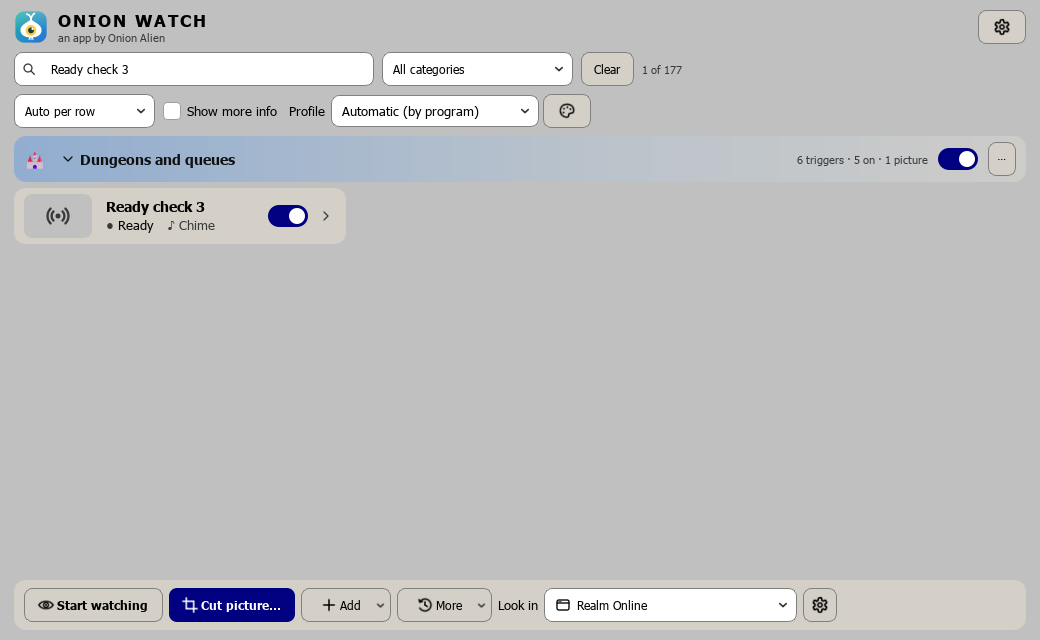
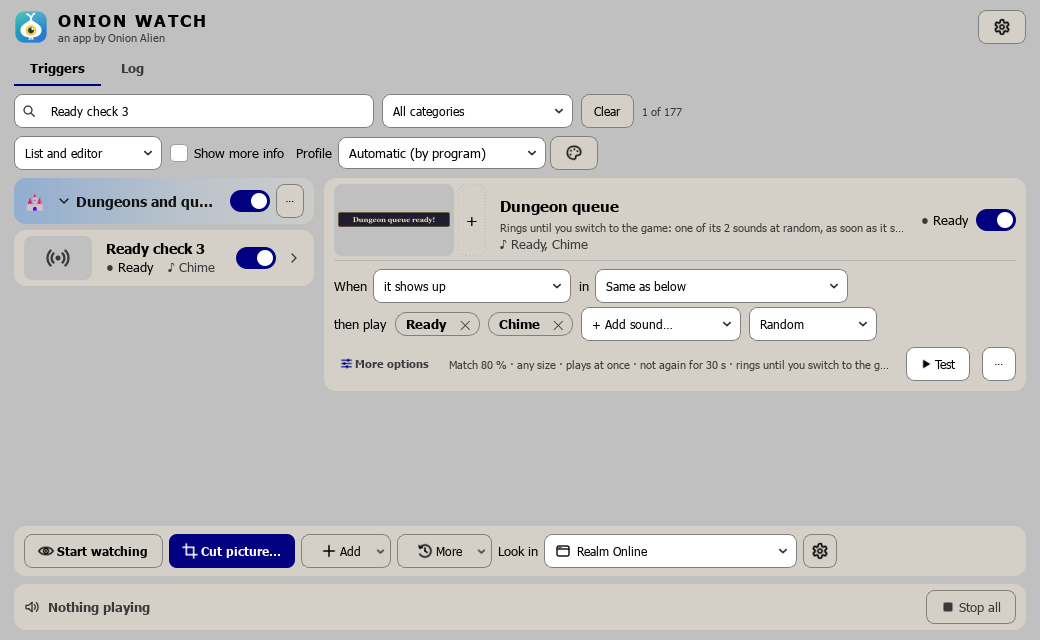
Onion Watch 0.9.0
The list and editor; README and website pictures redrawn.

diff --git a/docs/index.html b/docs/index.html
@@ -7,7 +7,7 @@
 <meta name="description" content="Free Windows app that plays a sound when something shows up in your game: a rare spawn, a queue pop, a whisper, YOU DIED. It watches the game's own window, even while you're alt-tabbed away, and never touches the game.">
 <meta property="og:title" content="Onion Watch: a sound when your game needs you">
 <meta property="og:description" content="Plays a sound when a rare spawn, a queue pop or a whisper shows up in your game, even while you're alt-tabbed. Free, Windows, it only looks.">
-<meta property="og:image" content="https://onion-alien.github.io/onion-watch/art/social-preview.png?v=08df731f">
+<meta property="og:image" content="https://onion-alien.github.io/onion-watch/art/social-preview.png?v=2ae39d7e">
 <meta property="og:type" content="website">
 <meta name="twitter:card" content="summary_large_image">
 <link rel="canonical" href="https://onion-alien.github.io/onion-watch/">
@@ -66,11 +66,11 @@
       something else.</p>
     <a class="dl" href="https://github.com/Onion-Alien/onion-watch/releases/latest/download/OnionWatch-Installer.exe" data-goatcounter-click="download-watch-top">⬇ Download for Windows</a>
     <!-- release -->
-    <p class="small">Version 0.8.1 · Windows 10 / 11 · free, no account, no internet needed<br>
+    <p class="small">Version 0.9.0 · Windows 10 / 11 · free, no account, no internet needed<br>
       <a href="https://www.virustotal.com/gui/file/661169fafb3e30f261867b312cdd8ef2052bb8313ae2812577bd7d572b8a17a5">VirusTotal: 68 of 68 clean</a> ·
       <a href="https://github.com/Onion-Alien/onion-watch/releases/latest">what's new</a></p>
     <!-- /release -->
-    <img class="hero" src="screenshots/main.png?v=18d8dcbe" width="900" height="820"
+    <img class="hero" src="screenshots/main.png?v=9ef68566" width="900" height="820"
          alt="Onion Watch watching a game, one trigger open">
   </header>
 
@@ -89,7 +89,7 @@
     <figure><img src="screenshots/window-picker.png?v=c1530a72" alt="Picking the windows to watch" loading="lazy"><figcaption>Pick the windows, or every copy of a game</figcaption></figure>
     <figure><img src="screenshots/cut-picture.png?v=e74729da" alt="Cutting a picture out of the game" loading="lazy"><figcaption>Cut out the thing to watch for</figcaption></figure>
     <figure><img src="screenshots/health-bar.png?v=4ee7c359" alt="Picking a health bar and its colour" loading="lazy"><figcaption>Or point it at a health bar</figcaption></figure>
-    <figure><img src="screenshots/categories.png?v=9f2832b1" alt="Categories and profiles" loading="lazy"><figcaption>Hundreds of triggers in categories and profiles</figcaption></figure>
+    <figure><img src="screenshots/categories.png?v=a76fe151" alt="Categories and profiles" loading="lazy"><figcaption>Hundreds of triggers in categories and profiles</figcaption></figure>
   </div>
 
   <h2>Get started</h2>

diff --git a/onionwatch/__init__.py b/onionwatch/__init__.py
@@ -1,4 +1,4 @@
 """Onion Watch: plays a sound when something shows up in a game window, even while
 you are alt-tabbed into another one."""
 
-__version__ = "0.8.1"
+__version__ = "0.9.0"

diff --git a/README.md b/README.md
@@ -15,17 +15,17 @@ until you're back.
 ## ⬇ [Download Onion Watch for Windows](https://github.com/Onion-Alien/onion-watch/releases/latest/download/OnionWatch-Installer.exe)
 
 <!-- release -->
-Version **0.8.1** · Windows 10 / 11 · free, no account, no internet needed ·
+Version **0.9.0** · Windows 10 / 11 · free, no account, no internet needed ·
 [VirusTotal: 68 of 68 clean](https://www.virustotal.com/gui/file/661169fafb3e30f261867b312cdd8ef2052bb8313ae2812577bd7d572b8a17a5) · [what's new](https://github.com/Onion-Alien/onion-watch/releases/latest)
 <!-- /release -->
 
-![Onion Watch watching a game, one trigger open](docs/screenshots/main.png?v=18d8dcbe)
+![Onion Watch watching a game, one trigger open](docs/screenshots/main.png?v=9ef68566)
 
 | | |
 |---|---|
 | ![The window picker](docs/screenshots/window-picker.png?v=c1530a72) | ![Cutting a picture from a window](docs/screenshots/cut-picture.png?v=e74729da) |
 | Pick the windows, or every copy of a game | Cut the thing to watch for straight out of the game |
-| ![Picking a health bar and its colour](docs/screenshots/health-bar.png?v=4ee7c359) | ![Categories and profiles](docs/screenshots/categories.png?v=9f2832b1) |
+| ![Picking a health bar and its colour](docs/screenshots/health-bar.png?v=4ee7c359) | ![Categories and profiles](docs/screenshots/categories.png?v=a76fe151) |
 | Or point it at a health bar | Hundreds of triggers in categories and profiles |
 
 ## It only looks
